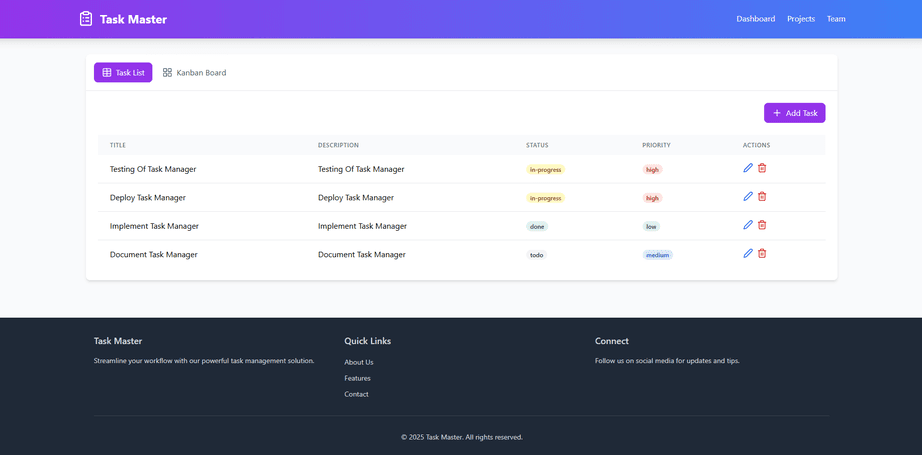
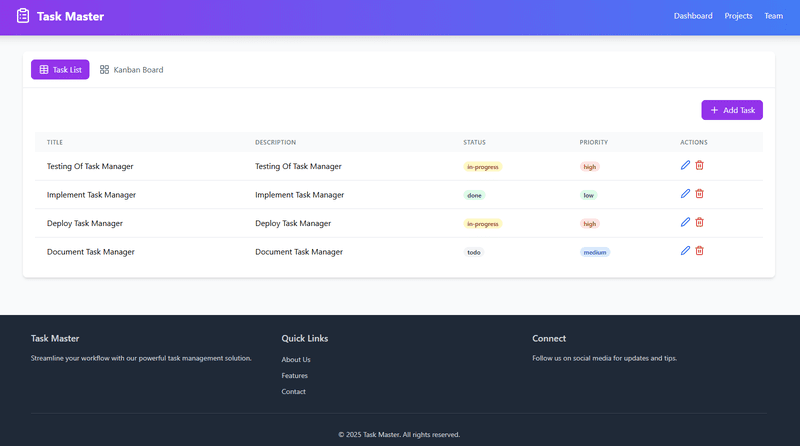
Add new project

diff --git a/src/components/Home/HeroSection.js b/src/components/Home/HeroSection.js
@@ -10,14 +10,14 @@ const HeroSection = () => (
     initial={{ x: '-100vw' }}
     animate={{ x: -0 }}
     transition={{ duration: 1 }}
-    className="flex flex-col items-center gap-10 md:flex-row md:gap-60"
+    className="flex flex-col items-center gap-10 md:ml-4 md:flex-row md:gap-96"
   >
     <div className="md:order-1">
-      <img src={profilePicture} alt="profile" className="h-64 md:h-80 rounded-full" />
+      <img src={profilePicture} alt="profile" className="h-64 rounded-full md:h-80" />
     </div>
     <div className="text-skyColor">
       <p className="text-base text-secondaryColor">Hello!</p>
-      <h1 className="text-secondaryColor text-4xl md:text-5xl">I&apos;m Ranjeet Singh</h1>
+      <h1 className="text-4xl text-secondaryColor md:text-5xl">I&apos;m Ranjeet Singh</h1>
       {
           fields.map((field) => (
             <div key={field} className="flex gap-4 mt-3">
@@ -29,8 +29,7 @@ const HeroSection = () => (
       <Link to="/contact">
         <button
           type="button"
-          className="bg-lightBlueColor mt-10 rounded px-6 py-2 w-50
-      text-lg text-skyColor font-medium hover:bg-secondaryColor hover:text-primaryColor"
+          className="px-6 py-2 mt-10 text-lg font-medium rounded bg-lightBlueColor w-50 text-skyColor hover:bg-secondaryColor hover:text-primaryColor"
         >
           Get in Touch
         </button>
